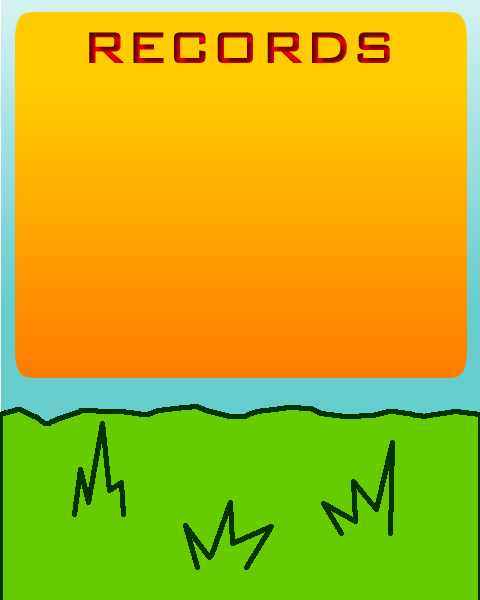
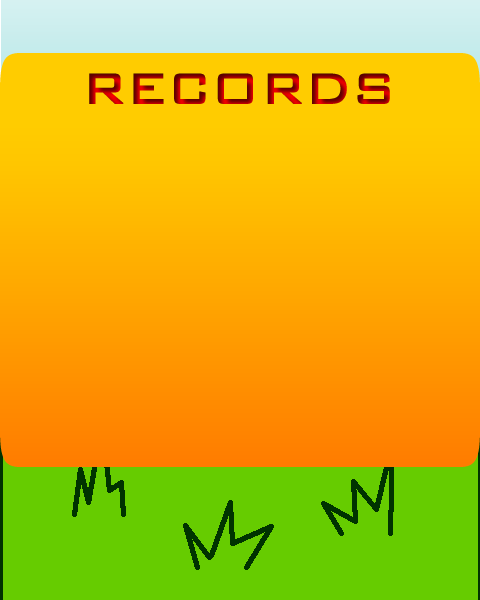
Modificada la interfaz de Records

Changed region(s): [[0.0, 0.0, 1.0, 0.78]]

diff --git a/proyecto/ScoreBoard.java b/proyecto/ScoreBoard.java
@@ -52,19 +52,20 @@ public class ScoreBoard extends Actor
     private void drawScores()
     {
         // 50 pixels is the max height of the user image
-        final int pixelsPerUser = 50 + 2*GAP;
+        final int pixelsPerUser = 50 + 2 * GAP;
         // Calculate how many users we have room for:
-        final int numUsers = ((getImage().getHeight() - (HEADER_TEXT_HEIGHT + 10)) / pixelsPerUser);
+        final int numUsers = (getImage().getHeight()/* - (HEADER_TEXT_HEIGHT + 10))*/ / pixelsPerUser);
         final int topSpace = getImage().getHeight() - (numUsers * pixelsPerUser) - GAP;
         
         getImage().setColor(BACKGROUND_COLOR);
         getImage().fill();
 
-        drawString("All Players", 100, topSpace - HEADER_TEXT_HEIGHT - 5, MAIN_COLOR, HEADER_TEXT_HEIGHT);
-        drawString("Near You", 100 + getImage().getWidth() / 2, topSpace - HEADER_TEXT_HEIGHT - 5, MAIN_COLOR, HEADER_TEXT_HEIGHT);        
-        
-        drawUserPanel(GAP, topSpace, (getImage().getWidth() / 2) - GAP, topSpace + numUsers * pixelsPerUser, UserInfo.getTop(numUsers));
-        drawUserPanel(GAP + getImage().getWidth() / 2, topSpace, getImage().getWidth() - GAP, topSpace + numUsers * pixelsPerUser, UserInfo.getNearby(numUsers));
+        //drawString("All Players", 100, topSpace - HEADER_TEXT_HEIGHT - 5, MAIN_COLOR, HEADER_TEXT_HEIGHT);
+        //drawString("Near You", 100 + getImage().getWidth() / 2, topSpace - HEADER_TEXT_HEIGHT - 5, MAIN_COLOR, HEADER_TEXT_HEIGHT);        
+        drawUserPanel(GAP + 45, topSpace, getImage().getWidth() - GAP, topSpace + numUsers * pixelsPerUser, UserInfo.getTop(numUsers));
+        //drawUserPanel(GAP, topSpace, (getImage().getWidth() / 2) - GAP, topSpace + numUsers * pixelsPerUser, UserInfo.getTop(numUsers));
+        //drawUserPanel(GAP, topSpace, (getImage().getWidth() / 2) - GAP, topSpace + numUsers * pixelsPerUser, UserInfo.getTop(numUsers));
+        //drawUserPanel(GAP + getImage().getWidth() / 2, topSpace, getImage().getWidth() - GAP, topSpace + numUsers * pixelsPerUser, UserInfo.getNearby(numUsers));
     }
     
     private void drawUserPanel(int left, int top, int right, int bottom, List users)

diff --git a/proyecto/Juego.java b/proyecto/Juego.java
@@ -119,14 +119,14 @@ public class Juego extends World
     public void record()
     {
         setBackground(getImagen(2));
-        addObject(new ScoreBoard(480, 400), getWidth() / 2, getHeight() / 2);
-        addObject(regresar, getWidth() / 2, 500);
+        addObject(new ScoreBoard(480, 350), getWidth() / 2, getHeight() / 2);
+        addObject(regresar, getWidth() / 2, 540);
     }
     
     public void creditos()
     {
         setBackground(getImagen(3));
-        addObject(regresar, getWidth() / 2, 500);
+        addObject(regresar, getWidth() / 2, 540);
     }
     
     public void gameOver()
@@ -138,7 +138,7 @@ public class Juego extends World
         showText("", 250, getHeight() - 60);
         fase = 0;
         setBackground(getImagen(4));
-        addObject(regresar, getWidth() / 2, 500);
+        addObject(regresar, getWidth() / 2, 540);
         contadorNectar = 0;
         nectarTotal = 0;
         frame = 0;
